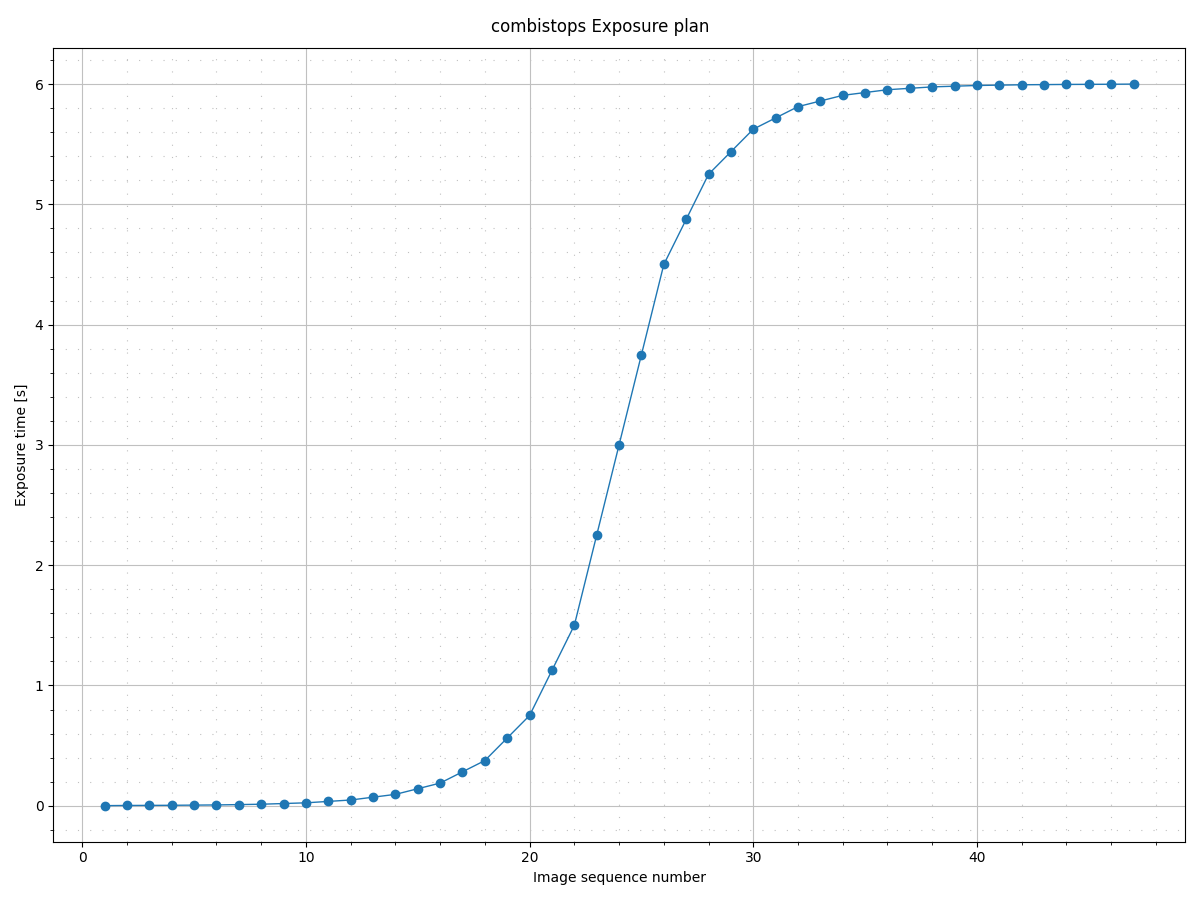
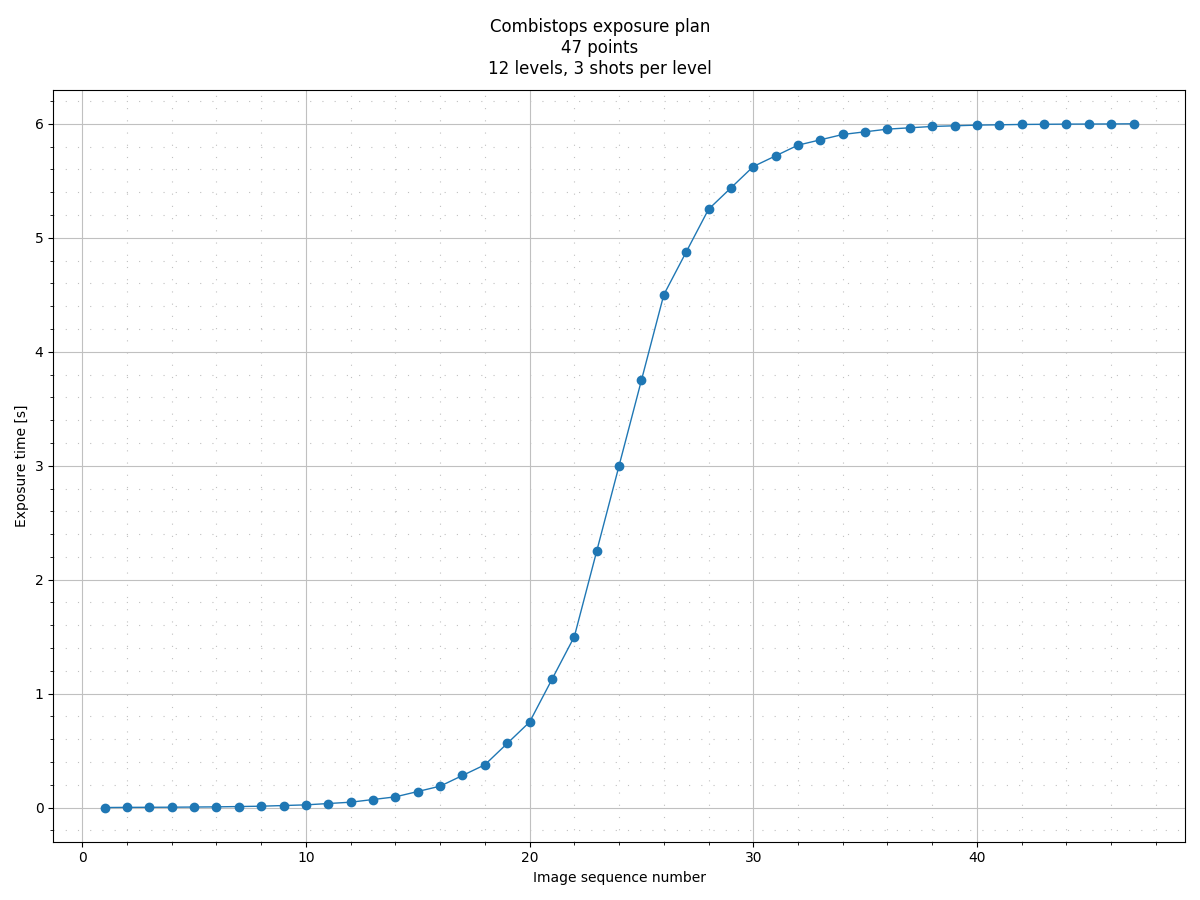
added subtitles to exposue plans

diff --git a/src/rawplot/plan.py b/src/rawplot/plan.py
@@ -43,19 +43,15 @@ log = logging.getLogger(__name__)
 # Auxiliary fnctions
 # ------------------
 
-def plot_histo(axes, color_plane, title, decimate, average, median, stddev):
-    axes.set_title(fr'channel {title}: $median={median}, \mu={average},\;\sigma={stddev}$')
-    data = color_plane.reshape(-1)[::decimate]
-    bins=list(range(data.min(), data.max()+1))
-    axes.hist(data, bins=bins, rwidth=0.9, align='left', label='hist')
-    axes.set_xlabel('Pixel value [DN]')
-    axes.set_ylabel('Pixel count')
+def plot_plan(fig, axes, title, subtitle, num_seq, exptime):
+    fig.suptitle(f"{title}\n{len(exptime)} points\n{subtitle}")   
+    axes.plot(num_seq, exptime,  marker='o', linewidth=1, label="data")
+    axes.set_xlabel('Image sequence number')
+    axes.set_ylabel('Exposure time [s]')
     axes.grid(True,  which='major', color='silver', linestyle='solid')
     axes.grid(True,  which='minor', color='silver', linestyle=(0, (1, 10)))
     axes.minorticks_on()
-    axes.axvline(x=average, linestyle='--', color='r', label="mean")
-    axes.axvline(x=median, linestyle='--', color='k', label="median")
-    axes.legend()
+
 
 def plot_image(fig, axes, color_plane, roi, title, average, median, stddev, colormap, edgecolor):
     axes.set_title(fr'{title}: $median={median}, \mu={average},\;\sigma={stddev}$')
@@ -147,14 +143,23 @@ def combistops_plan(ti, tf, max_dn, ppl):
 def plan(args):
     if args.command == 'linear':
         T = linear_plan(args.t_initial, args.t_final, args.num_images, endpoint=True)
+        subtitle = ""
     elif args.command == 'stops':
         T = stops_plan(args.t_initial, args.t_final, args.max_dn, args.points_per_level, args.reverse)
+        levels = int(round(math.log2(args.max_dn),0))
+        shots = args.points_per_level
+        subtitle = f"{levels} levels, {shots} shots per level"
     elif args.command == 'log':
         T = log_plan(args.t_initial, args.t_final, args.num_images, args.reverse, endpoint=True)
+        subtitle = ""
     elif args.command == 'combilog':
         T = combilog_plan(args.t_initial, args.t_final, args.num_images)
+        subtitle = ""
     elif args.command == 'combistops':
         T = combistops_plan(args.t_initial, args.t_final, args.max_dn, args.points_per_level)
+        levels = int(round(math.log2(args.max_dn),0))
+        shots = args.points_per_level
+        subtitle = f"{levels} levels, {shots} shots per level"
     else:
         raise ValueError(f"Missing command!. Type {os.path.basename(sys.argv[0])} -h for help")
     log.info("final plan contains %d exposures", len(T))
@@ -162,14 +167,9 @@ def plan(args):
     if args.csv_file:
         export_to_csv(args.csv_file, T)
     num_seq = range(1, len(T)+1)
+    title = f"{args.command.title()} exposure plan"
     fig, axes = plt.subplots(nrows=1, ncols=1, figsize=(12, 9), layout='tight')
-    fig.suptitle(f"{args.command} Exposure plan")   
-    axes.plot(num_seq, T,  marker='o', linewidth=1, label="data")
-    axes.set_xlabel('Image sequence number')
-    axes.set_ylabel('Exposure time [s]')
-    axes.grid(True,  which='major', color='silver', linestyle='solid')
-    axes.grid(True,  which='minor', color='silver', linestyle=(0, (1, 10)))
-    axes.minorticks_on()
+    plot_plan(fig, axes, title, subtitle, num_seq, T)
     plt.show()
 
 # ===================================
